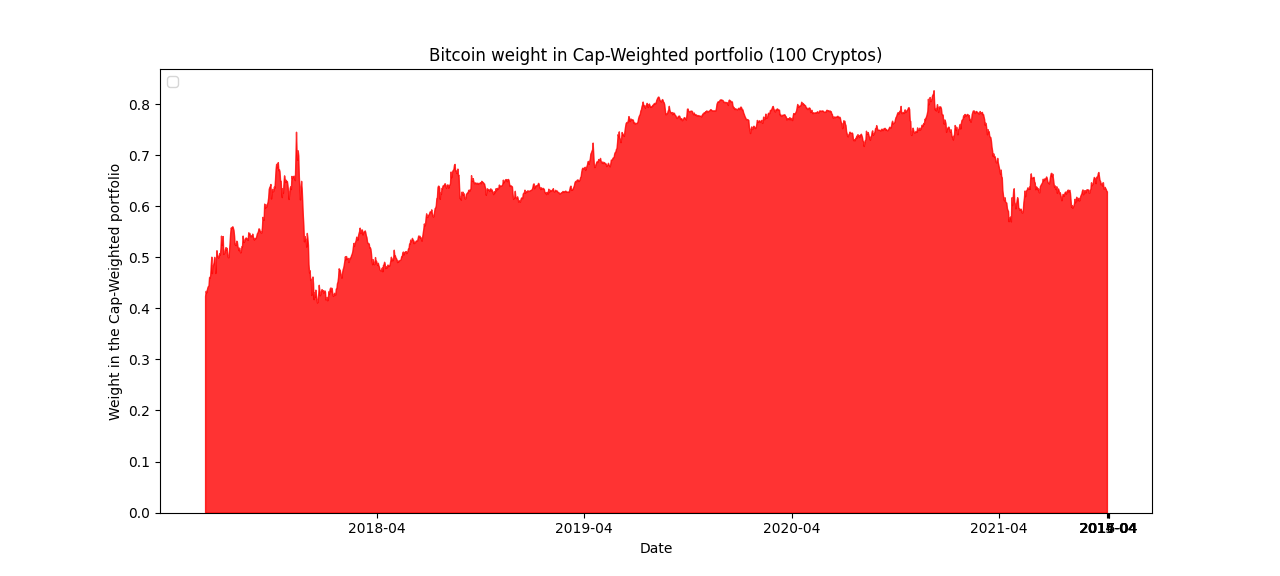
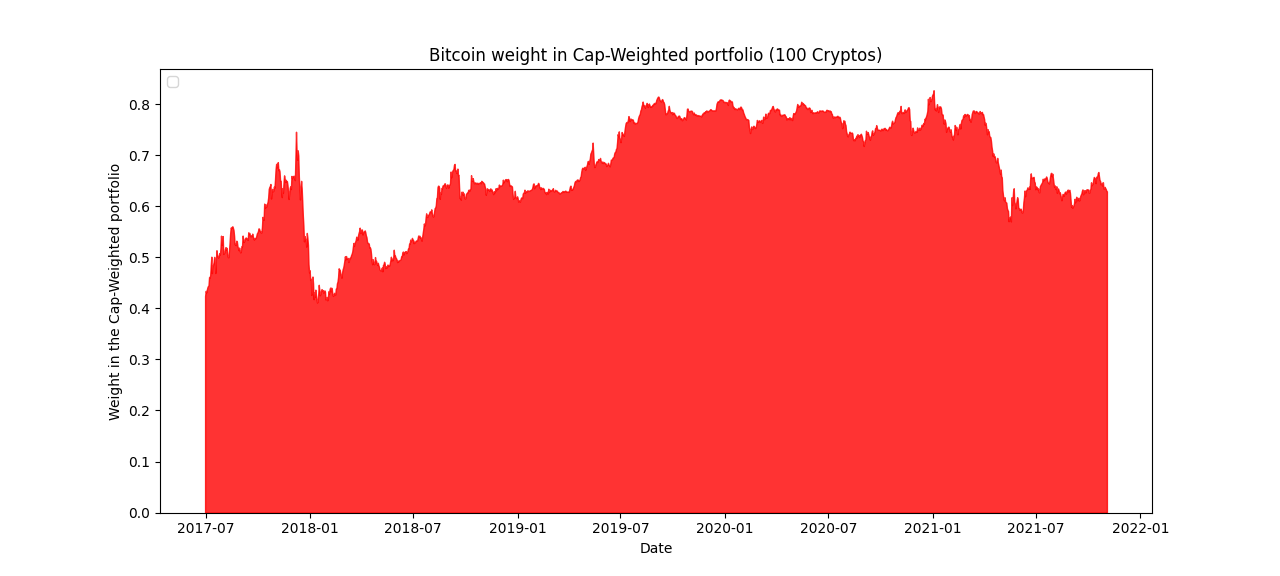
debug graph 100 crypto min-var

diff --git a/graph_maker.py b/graph_maker.py
@@ -1,15 +1,22 @@
+from sys import path
 import pandas as pd
 import numpy as np
 import matplotlib.pyplot as plt
 from pathlib import Path
+import plotly.express as px
+
 path_original = Path(__file__).resolve()
 path_data_processed = (path_original / "../data/processed/").resolve()
 path_data_strat = (path_original / "../data/strats/").resolve()
+
 import config as c
 marketcap = format(c.market_cap,'.0e')
 
 K = 365 #number of days between each xticks
 
+#############
+### Graphs ##
+#############
 
 #Bitcoin prevalence on Cap-weighted
 CW_weights_20 = pd.read_csv(f"{path_data_processed}/CW_weights_20_1e{marketcap[-1]}.csv", index_col=0)
@@ -35,6 +42,8 @@ plt.savefig('graphs/bitcoin_weight.png', format="png")
 #plt.show()
 plt.clf()
 
+
+plt.figure(figsize=(6.4 * 2, 4.8 * 1.2))
 fig, ax = plt.subplots(figsize=(6.4 * 2, 4.8 * 1.2))
 ax.stackplot(y20.index, y20, alpha=0.8)
 ax.legend(loc='upper left')
@@ -44,14 +53,20 @@ ax.set_xlabel('Date')
 ax.set_ylabel('Weight in the Cap-Weighted portfolio')
 plt.savefig('graphs/bitcoin_weight_stack_20.png', format="png")
 
+
+Xs = X[::K]
+xlabels = pd.to_datetime(y100.index).strftime("%Y-%m")
+xlabels = xlabels[::K]
+plt.figure(figsize=(6.4 * 2, 4.8 * 1.2))
 fig, ax = plt.subplots(figsize=(6.4 * 2, 4.8 * 1.2))
-ax.stackplot(y100.index, y100, alpha=0.8, color="red")
+ax.stackplot(pd.to_datetime(y100.index), y100, alpha=0.8, color="red")
 ax.legend(loc='upper left')
-plt.xticks(Xs, xlabels)
+# plt.xticks(Xs, xlabels)
 ax.set_title('Bitcoin weight in Cap-Weighted portfolio (100 Cryptos)')
 ax.set_xlabel('Date')
 ax.set_ylabel('Weight in the Cap-Weighted portfolio')
 plt.savefig('graphs/bitcoin_weight_stack_100.png', format="png")
+print(y100.index)
 
 #graphs of low beta perf for different benchmarks
 
@@ -90,6 +105,103 @@ plt.savefig('graphs/low_beta_comp.png', format="png")
 plt.clf()
 
 
+## Low Vol ##
+
+LV = pd.read_csv(f"{path_data_strat}/Low_Vol_price_100_1e{marketcap[-1]}.csv", index_col=0)
+HV = pd.read_csv(f"{path_data_strat}/High_Vol_price_100_1e{marketcap[-1]}.csv", index_col=0)
+
+yLV = np.log(LV)
+yHV = np.log(HV)
+
+
+X = HV.index
+plt.figure(figsize=(6.4 * 2, 4.8 * 1.2))
+plt.plot(yLV, "b-", alpha=0.8, label = "Low Volatility")
+plt.plot(yHV, "r--", alpha=0.8, label = "High Volatility")
+
+Xs = X[::K]
+xlabels = pd.to_datetime(X).strftime("%Y-%m")
+xlabels = xlabels[::K]
+plt.title("Performance of Low volatility strategy (100 Cryptocurrencies)")
+plt.xticks(Xs, xlabels)
+plt.legend(loc='upper left')
+plt.ylabel('Log Portfolio Price Performance')
+plt.savefig('graphs/low_vol_100.png', format="png")
+
+
+LV = pd.read_csv(f"{path_data_strat}/Low_Vol_price_20_1e{marketcap[-1]}.csv", index_col=0)
+HV = pd.read_csv(f"{path_data_strat}/High_Vol_price_20_1e{marketcap[-1]}.csv", index_col=0)
+
+yLV = np.log(LV)
+yHV = np.log(HV)
+
+
+X = HV.index
+plt.figure(figsize=(6.4 * 2, 4.8 * 1.2))
+plt.plot(yLV, "b-", alpha=0.8, label = "Low Volatility")
+plt.plot(yHV, "r--", alpha=0.8, label = "High Volatility")
+
+Xs = X[::K]
+xlabels = pd.to_datetime(X).strftime("%Y-%m")
+xlabels = xlabels[::K]
+plt.title("Performance of Low volatility strategy (100 Cryptocurrencies)")
+plt.xticks(Xs, xlabels)
+plt.legend(loc='upper left')
+plt.ylabel('Log Portfolio Price Performance')
+plt.savefig('graphs/low_vol_20.png', format="png")
+
+## Minimum Variance ##
+
+MV_20 = pd.read_csv(f"{path_data_strat}/MV_price_20_1e{marketcap[-1]}.csv", index_col=0)
+MV_100 = pd.read_csv(f"{path_data_strat}/MV_price_100_1e{marketcap[-1]}.csv", index_col=0)
+
+CW_20 = pd.read_csv(f"{path_data_strat}/CW_price_20_1e{marketcap[-1]}.csv", index_col=0)
+dif_20 = CW_20.shape[0] - MV_20.shape[0]
+CW_20 = CW_20.iloc[dif_20:,:]
+
+CW_100 = pd.read_csv(f"{path_data_processed}/CW_perf_100_1e{marketcap[-1]}.csv", index_col=0)
+dif_100 = CW_100.shape[0] - MV_100.shape[0]
+CW_100 = CW_100.iloc[dif_100:,:]
+CW_100 = CW_100.add(1).cumprod()*100
+
+yMV_20 = np.log(MV_20)
+yCW_20 = np.log(CW_20)
+X = CW_20.index
+
+plt.figure(figsize=(6.4 * 2, 4.8 * 1.2))
+plt.plot(yMV_20, "b-", alpha=0.8, label = "Minimum Variance")
+plt.plot(yCW_20, "r--", alpha=0.8, label = "Cap-weigthed benchmark")
+
+Xs = X[::K]
+xlabels = pd.to_datetime(X).strftime("%Y-%m")
+xlabels = xlabels[::K]
+plt.title("Performance of Minimum Variance (20 Cryptocurrencies)")
+plt.xticks(Xs, xlabels)
+plt.legend(loc='upper left')
+plt.ylabel('Log Portfolio Price Performance')
+plt.savefig('graphs/min_var_vs_cap_weigthed_20.png', format="png")
+
+
+yMV_100 = np.log(MV_100)
+yCW_100 = np.log(CW_100)
+X = CW_100.index
+
+plt.figure(figsize=(6.4 * 2, 4.8 * 1.2))
+plt.plot(yMV_100, "b-", alpha=0.8, label = "Minimum Variance")
+plt.plot(yCW_100, "r--", alpha=0.8, label = "Cap-weigthed benchmark")
+
+Xs = X[::K]
+xlabels = pd.to_datetime(X).strftime("%Y-%m")
+xlabels = xlabels[::K]
+plt.title("Performance of Minimum Variance (100 Cryptocurrencies)")
+plt.xticks(Xs, xlabels)
+plt.legend(loc='upper left')
+plt.ylabel('Log Portfolio Price Performance')
+plt.savefig('graphs/min_var_vs_cap_weigthed_100.png', format="png")
+###########
+## Table ##
+###########
+
 #Table of Sharpe taking into account turnover at 0.3% per trans
 
 metrics_20 = pd.read_csv(f"{path_data_processed}/df_metrics_20_1e{marketcap[-1]}.csv", index_col=0)
@@ -117,7 +229,7 @@ metrics_100['sharpe_adj'] = (metrics_100.monthly_returns - metrics_100.monthly_t
 df_sharpe = pd.DataFrame(columns = metrics_20.index)
 df_sharpe.loc['Sharpe 20 rebalanced 7 adjusted'] = metrics_20.sharpe_adj.values.round(3)
 df_sharpe.loc['Sharpe 100 rebalanced 7 adjusted'] = metrics_100.sharpe_adj.values.round(3)
-print(df_sharpe)
+# print(df_sharpe)
 df_sharpe.to_latex("latex/sharpe_adj_reb7.tex", caption="Sharpe Ratio of strategies adjusted for turnover (Rebalanced 7 days)", label="sharpe7", float_format="%.2f" )
 
 
@@ -132,7 +244,7 @@ metrics_100['sharpe_adj'] = (metrics_100.monthly_returns - metrics_100.monthly_t
 df_sharpe = pd.DataFrame(columns = metrics_20.index)
 df_sharpe.loc['Sharpe 20 rebalanced 30 adjusted'] = metrics_20.sharpe_adj.values.round(3)
 df_sharpe.loc['Sharpe 100 rebalanced 30 adjusted'] = metrics_100.sharpe_adj.values.round(3)
-print(df_sharpe)
+# print(df_sharpe)
 df_sharpe.to_latex("latex/sharpe_adj_reb30.tex", caption="Sharpe Ratio of strategies adjusted for turnover (Rebalanced 30 days)", label="sharpe30", float_format="%.2f" )
 
 #Graph vola CW and ?
